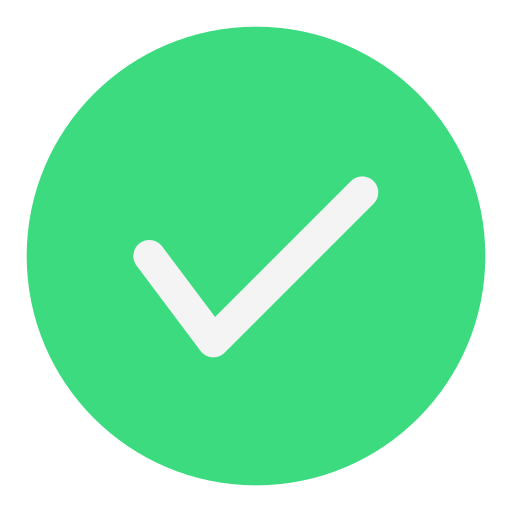
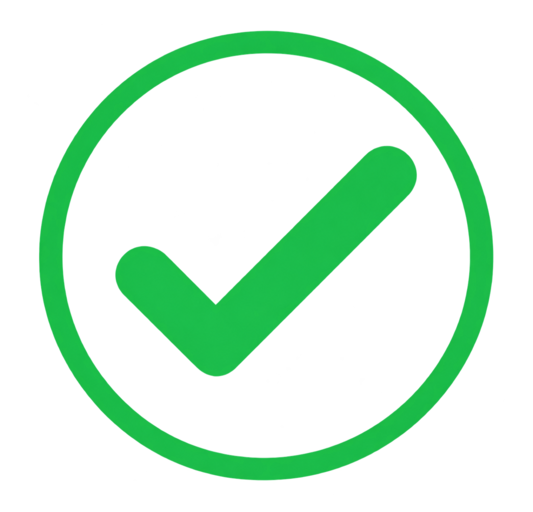
bug fixing phase 1

diff --git a/components/helper/index.tsx b/components/helper/index.tsx
@@ -124,6 +124,33 @@ export function GetDecrypt(text: any, logout?: boolean) {
   }
 }
 
+const STATIC_CACHE_TTL = 30000;
+const staticCache = new Map<string, { t: number; v: any }>();
+const STATIC_CACHE_LIKE = [
+  "/cms/uall",
+  "/cms/rall",
+  "/cms/role",
+  "/cms/countryByRegion",
+  "/cms/cityByCountry",
+];
+const STATIC_CACHE_PREFIX = [
+  "/cms/menu",
+  "/cms/menu/get-parent-by-id-children",
+];
+function staticCacheGet(uri: string): any | null {
+  const e = staticCache.get(uri);
+  if (e && Date.now() - e.t < STATIC_CACHE_TTL) return e.v;
+  return null;
+}
+function staticCacheSet(uri: string, v: any): void {
+  if (staticCache.size > 200) staticCache.clear();
+  staticCache.set(uri, { t: Date.now(), v });
+}
+const isStaticCachedUri = (uri: string): boolean => {
+  const base = uri.split("?")[0];
+  return STATIC_CACHE_LIKE.includes(base) || STATIC_CACHE_PREFIX.some((p) => base === p);
+};
+
 export const FetchData = async (
   uri: string,
   methods: string,
@@ -134,6 +161,10 @@ export const FetchData = async (
   linksucces: any,
   isNotToast?: boolean
 ) => {
+  if (methods == "GET" && isStaticCachedUri(uri)) {
+    const cached = staticCacheGet(uri);
+    if (cached) return Promise.resolve(cached);
+  }
   return fetchQueue.add(async () => {
     let requestOptions: RequestInit = {};
     var myHeaders = new Headers();
@@ -225,6 +256,7 @@ export const FetchData = async (
             }, 800);
           }
         }
+        if (methods == "GET") staticCacheSet(uri, datajson);
         return datajson;
       }
     } catch (error) {

diff --git a/components/common/tabIcon/tab.tsx b/components/common/tabIcon/tab.tsx
@@ -1431,7 +1431,12 @@ const TabMenuIcon = (props: DatatabProps) => {
     // }
   };
   useEffect(() => {
-    if (GetQueryStr("data")) {
+    // Reservation actions only exist on reservation pages. Other master pages
+    // (bar, rate, ...) reuse this component, and calling /cms/reservation/:id/update
+    // there only produced a 404 in the network tab.
+    const rsvPath = GetPathUri(2);
+    const isRsvPage = ["fit", "git", "day-use", "vr", "folio"].includes(rsvPath);
+    if (isRsvPage && GetQueryStr("data")) {
       GetDataDetail();
       GetDataMaster();
     }
@@ -1600,9 +1605,9 @@ const TabMenuIcon = (props: DatatabProps) => {
   const rsvPaths = ["/front-desk", "/reservation", "/night-audit", "/folio"];
   const isRsvArea = rsvPaths.some((p) => window.location.pathname.includes(p));
 
-  return (
+    return (
     <>
-      {popup ? (
+      {popup && String(id) === GetQueryStr("data") ? (
         <div className="overlay">
           <div
             ref={ref}

diff --git a/components/pages/bar/index.tsx b/components/pages/bar/index.tsx
@@ -16,7 +16,7 @@ const ListView = () => {
   useEffect(() => {
     const urlParams = new URLSearchParams(window.location.search);
     const parent = urlParams.get("parent");
-    const add = urlParams.get("data");
+    const add = urlParams.get("add");
     const view = urlParams.get("view");
     setparentid(parent);
     setadd(add);
@@ -24,7 +24,7 @@ const ListView = () => {
     // console.log("DATALOG", window.location.pathname.split("/"));
   });
   function RouteInit() {
-    if (add) {
+    if (add == "1") {
       return <AddPage />;
     } else if (view == "1") {
       return <AddPage isview={true} />;

diff --git a/components/pages/rate/index.tsx b/components/pages/rate/index.tsx
@@ -14,7 +14,7 @@ const ListView = () => {
   useEffect(() => {
     const urlParams = new URLSearchParams(window.location.search);
     const parent = urlParams.get("parent");
-    const add = urlParams.get("data");
+    const add = urlParams.get("add");
     const view = urlParams.get("view");
     setparentid(parent);
     setadd(add);
@@ -22,7 +22,7 @@ const ListView = () => {
     // console.log("DATALOG", window.location.pathname.split("/"));
   });
   function RouteInit() {
-    if (add) {
+    if (add == "1") {
       return <AddPage />;
     } else if (view == "1") {
       return <AddPage isview={true} />;

diff --git a/components/pages/rate-bar/form/index.tsx b/components/pages/rate-bar/form/index.tsx
@@ -28,7 +28,7 @@ const AddView = (props: AddviewProps) => {
   const [getdata, setgetdata] = useState(false);
   const [isapplyrate, setIsapplayrate] = useState(false);
   const [IsOpenModal, setIsOpenModal] = useState(false);
-  const { canUpdate, canCreate } = useFormPermission(86);
+  const { canUpdate, canCreate } = useFormPermission(87);
   const [isrestriction, setisrestriction] = useState(false);
   const currentDate = new Date().toJSON().slice(0, 10);
 

diff --git a/pages/property/form/index.tsx b/pages/property/form/index.tsx
@@ -185,7 +185,7 @@ const AddView = () => {
         region_id: datauser?.data?.relation?.regions,
         country_id: datauser?.data?.relation?.countries,
         is_tax: datauser?.data?.is_tax,
-        logo: datauser?.data?.image,
+        logo: datauser?.data?.logo,
         ip_doorlock: datauser?.data?.ip_doorlock,
         market_segment_1: datauser?.data?.market_segment_1,
         market_segment_2: datauser?.data?.market_segment_2,

diff --git a/components/common/layout/components/sidebar/SidebarMobile.tsx b/components/common/layout/components/sidebar/SidebarMobile.tsx
@@ -225,7 +225,7 @@ const SidebarMobile = () => {
 
             <div className="p-3 border-t border-white/10 shrink-0">
               <img
-                src={datalocal?.imgProperty || datalocal?.image}
+                src={`${process.env.uriApi || ""}${datalocal?.imgProperty || datalocal?.image || ""}`}
                 className="w-full h-12 object-contain bg-white/30 rounded-lg"
                 alt="property logo"
               />

diff --git a/components/pages/property/index.tsx b/components/pages/property/index.tsx
@@ -146,7 +146,7 @@ const PropertyListView = () => {
           className="flex items-center justify-center min-h-[180px] flex-1 p-6 transition-colors duration-300"
         >
           <img
-            src={row?.image}
+            src={`${process.env.uriApi || ""}${row?.image || ""}`}
             alt={row?.name}
             className="max-h-[140px] max-w-full object-contain"
           />

diff --git a/components/common/layout/components/sidebar/Sidebar.tsx b/components/common/layout/components/sidebar/Sidebar.tsx
@@ -307,7 +307,7 @@ const Sidebar = (props: sidebarprops) => {
             style={{ width: !hide ? '55px' : '15rem' }}
           >
             <img
-              src={imageProp}
+              src={`${process.env.uriApi || ""}${imageProp || ""}`}
               className="w-full h-16 object-contain bg-white/30 rounded-lg hover:bg-white/75"
             />
           </div>

diff --git a/utils/fetchQueue.ts b/utils/fetchQueue.ts
@@ -1,7 +1,7 @@
 import PQueue from "p-queue";
 
 export const fetchQueue = new PQueue({
-    concurrency: 3,
-    interval: 1000,    
-    intervalCap: 3       
+    concurrency: 4,
+    interval: 500,    
+    intervalCap: 4       
 });
